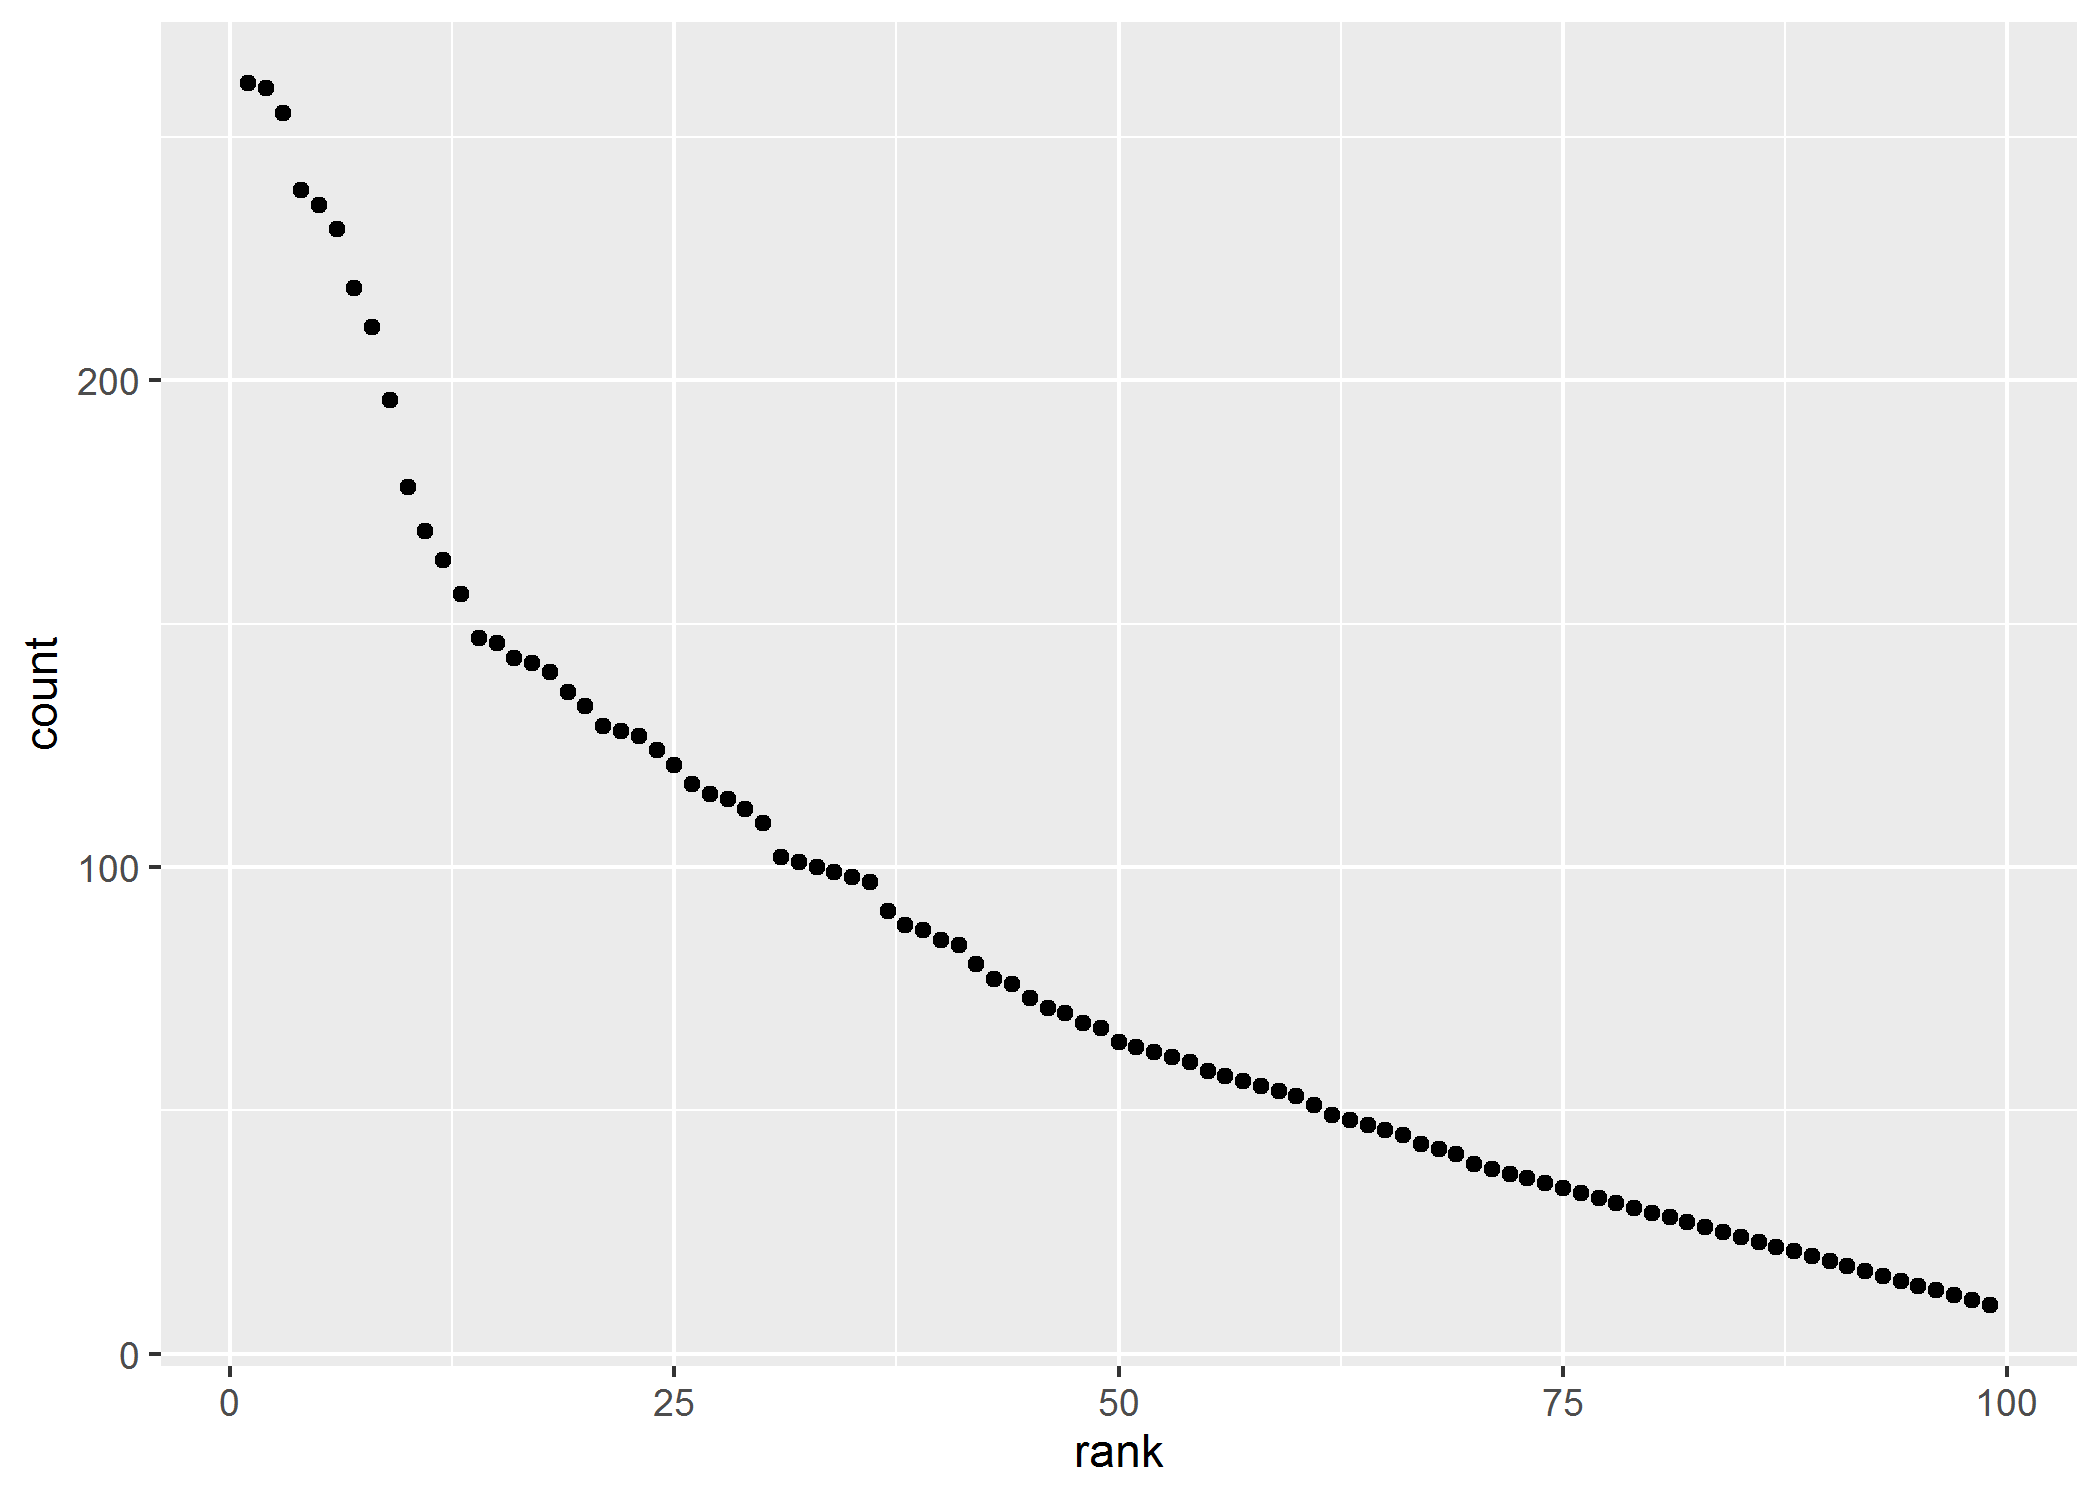
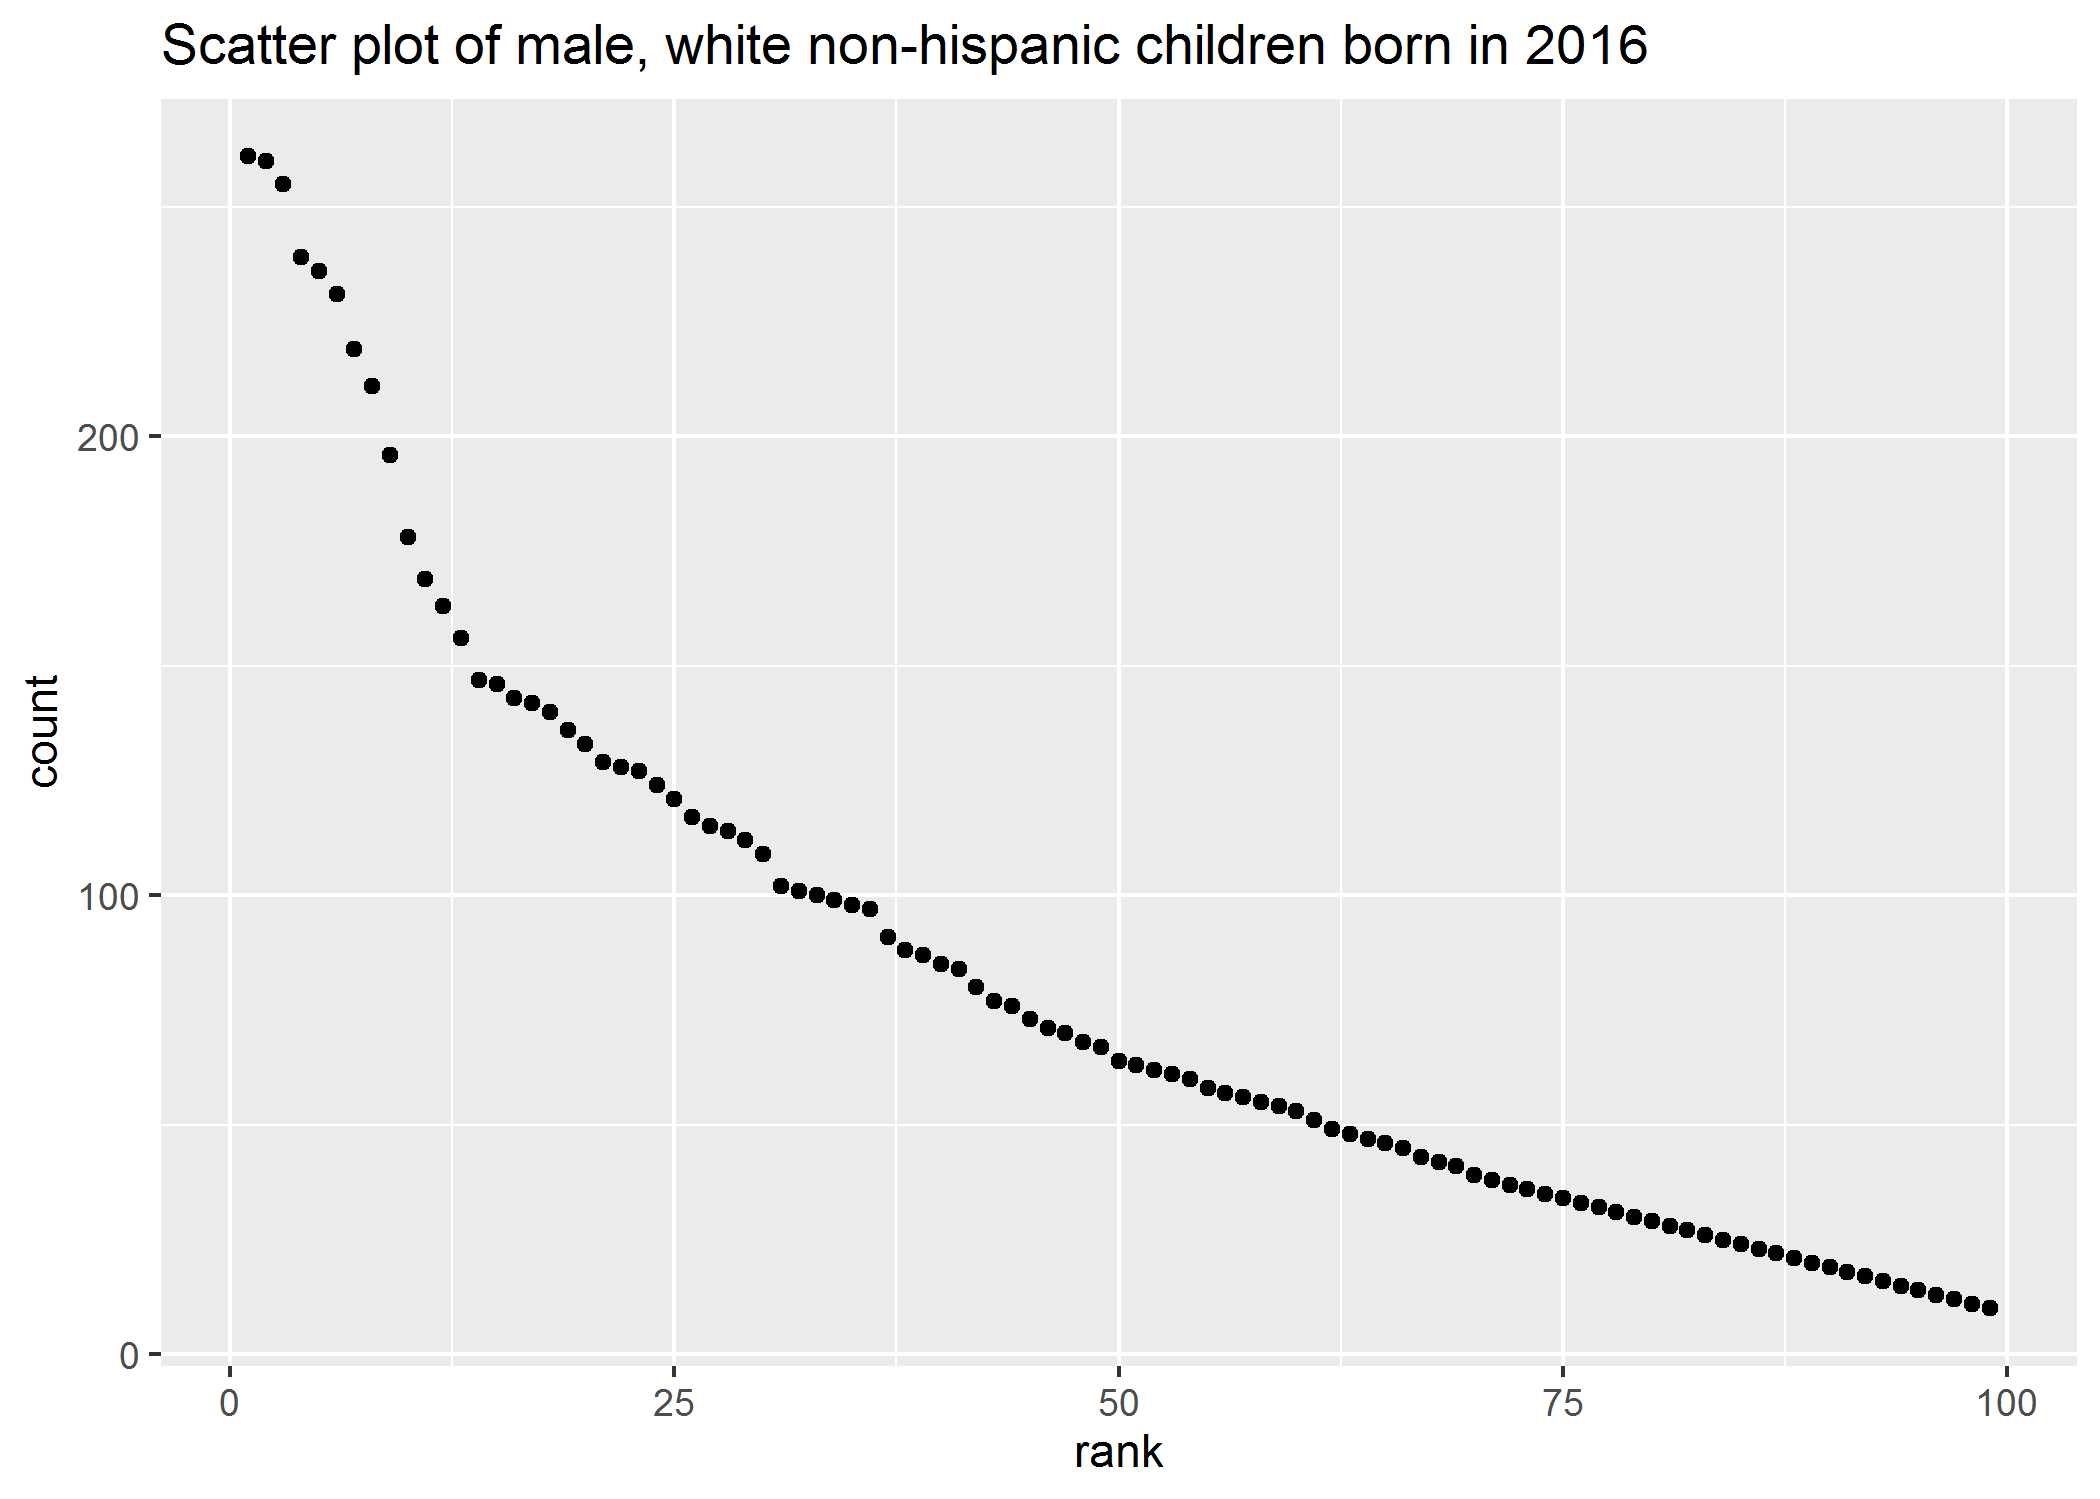
write comments and correct mistakes

diff --git a/p8105_hw2_jm4998.md b/p8105_hw2_jm4998.md
@@ -1,12 +1,12 @@
 Homework 2\_Data Wrangling\_jm4998
 ================
 Junhui Mi
-2019/9/24
+2019/9/28
 
 # Problem 1
 
-*Read data from
-Excel*
+*Read data from Excel and clean
+Mr\_data*
 
 ``` r
 Mr_data = read_excel("../dataset/HealthyHarborWaterWheelTotals2018-7-28.xlsx",
@@ -39,22 +39,25 @@ prec_all = full_join(prec_2018, prec_2017)
 
 ## Description
 
-1)  *Mr\_data* shows Mr. Trash Wheel data, with 285 observations. There
-    are 14 key variables: dumpster, month, year, date, weight\_tons,
+1)  “Mr\_data” shows Mr. Trash Wheel data, with 285 observations. There
+    are 14 variables: dumpster, month, year, date, weight\_tons,
     volume\_cubic\_yards, plastic\_bottles, polystyrene,
     cigarette\_butts, glass\_bottles, grocery\_bags, chip\_bags,
-    sports\_balls, homes\_powered.
+    sports\_balls, homes\_powered; “dumpster” and “sports\_balls” are
+    key variables.
 
-2)  *prec\_all* shows the combination of 2017 precipitation and 2018
+2)  “prec\_all” shows the combination of 2017 precipitation and 2018
     precipitation data, with 19. observations. There are 3 key
     variables: month, total, year.
 
 3)  The the total precipitation in 2018 is 23.5.
 
-4)  The median number of sports balls in a dumpster in 2017 is
-8.
+4)  The median number of sports balls in a dumpster in 2017 is 8.
 
 # Problem 2
+
+*Read and clean pols\_month, unemployment and snp data from
+csv*
 
 ``` r
 pols_month = read_csv(file = "../dataset/fivethirtyeight_datasets/pols-month.csv") %>%
@@ -129,6 +132,8 @@ snp = read_csv(file = "../dataset/fivethirtyeight_datasets/snp.csv") %>%
     ##   close = col_double()
     ## )
 
+*Left join three datasets by date*
+
 ``` r
 pols_month_2 = pols_month %>%
   mutate(date = paste(year, month, sep = "-")) %>%
@@ -149,18 +154,20 @@ pols_snp_unemployment = left_join(pols_snp, unemployment_2, by = "date") %>%
 
 ## Description
 
-1)  The three initial datasets: *pols\_month* contains the result of
-    each monthly pols; *unemployment* contains rates of unemployment
-    monthly; *snp* contains monthly close data.
+1)  The three initial datasets: “pols\_month” contains the result of
+    each monthly pols; “unemployment” contains rates of unemployment
+    monthly; “snp” contains monthly close data.
 
-2)  The resulting dataset *pols\_snp\_unemployment* merges data from
-    *pols\_month*, *unemployment* and *snp*, with 822 rows and 11
+2)  The resulting dataset “pols\_snp\_unemployment” merges data from
+    “pols\_month”, “unemployment” and “snp”, with 822 rows and 11
     columns. It contains data from year 1947 to 2015.Its variables are:
     year, month, gov\_gop, sen\_gop, rep\_gop, gov\_dem, sen\_dem,
     rep\_dem, president, close, unemployment\_rate. “year” and “month”
     are key variables which merge into “date” to be more accurate.
 
 # Problem 3
+
+*Read and clean baby names from csv*
 
 ``` r
 baby_names = read_csv(file = "../dataset/Popular_Baby_Names.csv") %>%
@@ -178,6 +185,11 @@ baby_names = read_csv(file = "../dataset/Popular_Baby_Names.csv") %>%
     ##   Count = col_double(),
     ##   Rank = col_double()
     ## )
+
+The “baby\_names” dataset collects 12181 popular baby name samples from
+year 2011 to 2016.
+
+*Popularity of the name “Olivia”*
 
 ``` r
 baby_names_olivia = baby_names %>%
@@ -200,6 +212,11 @@ baby_names_olivia
     ## 6 BLACK NON HISP                 NA     NA     NA     NA      8     NA
     ## 7 WHITE NON HISP                 NA     NA     NA     NA      4     NA
 
+The tibble “baby\_names\_olivia” above shows the rank in popularity of
+the name “Olivia” as a female baby name over time.
+
+*The most popular male name*
+
 ``` r
 popular_male_names = baby_names %>%
   filter(gender == "MALE", rank == "1") %>%
@@ -221,18 +238,29 @@ popular_male_names
     ## 6 BLACK NON HISP             <NA>   <NA>   <NA>   <NA>   Jayden <NA>   
     ## 7 WHITE NON HISP             <NA>   <NA>   <NA>   <NA>   Joseph <NA>
 
+The tibble “popular\_male\_names” above shows the most popular name
+among male children over time.
+
+*Scatter plot of the popularity of names for male, white non-hispanic
+children born in 2016*
+
 ``` r
 plot_data = baby_names %>%
   filter(gender == "MALE", ethnicity == "WHITE NON HISPANIC", 
          year_of_birth == "2016")
 ggplot(plot_data, aes(x = rank, y = count)) + 
-  geom_point()
+  geom_point() +
+  ggtitle("Scatter plot of male, white non-hispanic children born in 2016")
 ```
 
 ![](p8105_hw2_jm4998_files/figure-gfm/create_plot-1.png)<!-- -->
 
 ``` r
-ggsave("scatter plot of male, white non-hispanic children born in 2016.png")
+ggsave("Scatter plot of male, white non-hispanic children born in 2016.png")
 ```
 
     ## Saving 7 x 5 in image
+
+The scatter plot above shows the number of children with a name (y axis)
+against the rank in popularity of that name (x axis) for male, white
+non-hispanic children born in 2016.
